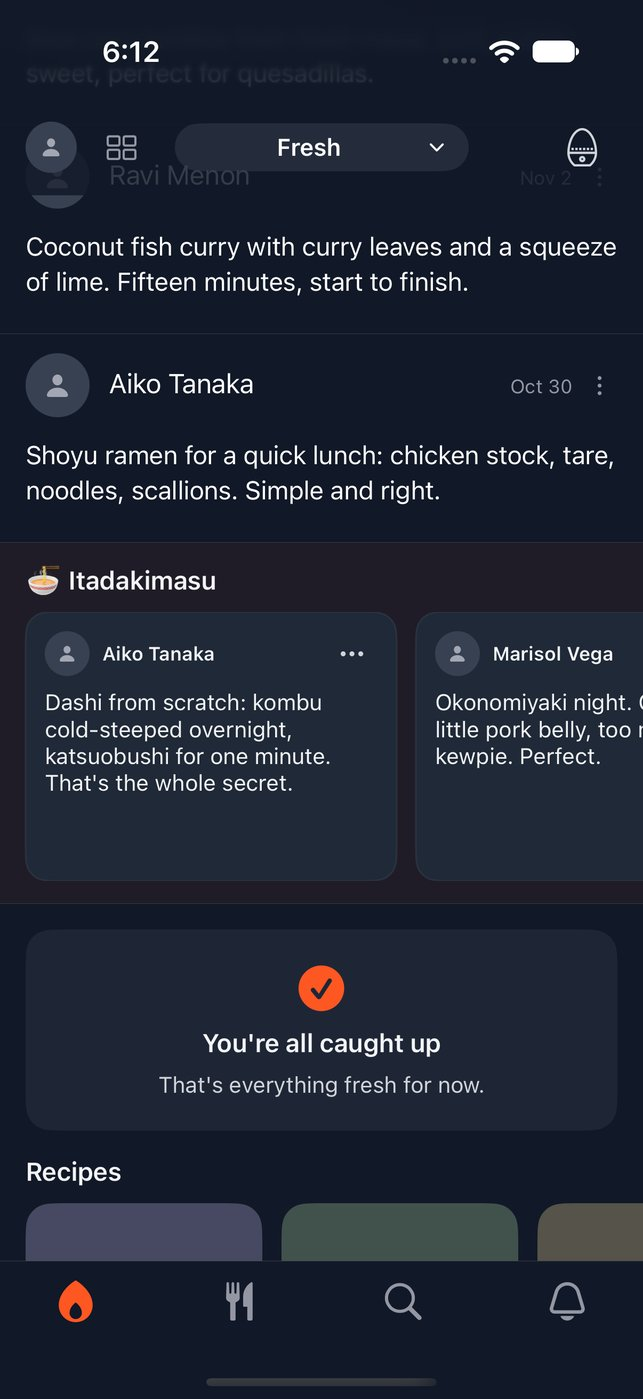
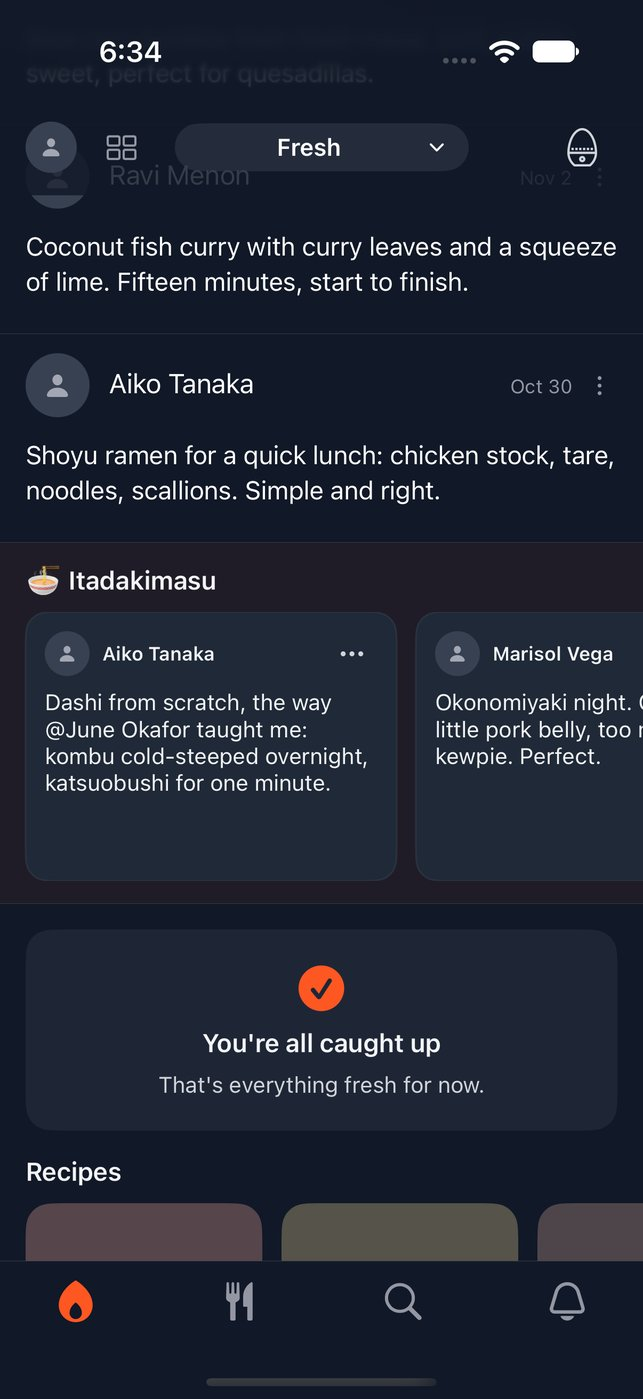
fix(fresh): spotlight mentions, spotlight profiles, recipe box takes recipes only
From Seth's device pass (flag flipped locally):

1. Mentions rendered raw. FreshSpotlightTile.plainText now goes through
   the app's ContentParser: a profile mention (nostr:npub / nprofile)
   reads "@name" by the feed's rule (RichInlineTextView.mentionName,
   extracted from its inline renderer: display name, else short npub,
   trailing space trimmed); note / nevent / naddr references, links,
   media and invoices are dropped.
2. Spotlight authors had no profile. When the loader readies a spotlight,
   the view model now asks for its authors' and mentioned people's
   profiles (referencedAuthorPubkeys; cached ones at once), before the
   card is placed. Later arrivals reach the tile through updates().
3. The recipe box took an article tagged zapcooking. FreshRecipeBox
   .isCandidate now uses RecipeParser.isRecipe (tag AND recipe-template
   content). The finish-line row's half is #218.

Tests: tile text with npub / nprofile / note / nevent / naddr / link;
profiles requested on prepare (fails if the request is removed); a tile
whose profiles arrive after it is on screen; tagged article never a box
card (unit and view model). Screenshot fixture gains a mention;
spotlight shots re-shot (iPhone, iPad both orientations).

diff --git a/wispTests/FreshSpecialsListTests.swift b/wispTests/FreshSpecialsListTests.swift
@@ -48,7 +48,8 @@ import Testing
     /// `answerTopics`); otherwise `scripted.previews` answers them.
     func makeRig(enabled: Bool = true, previewsOverSocket: Bool = false,
                  pubkey: String = String(repeating: "c", count: 64),
-                 visitStore: Base.Store = Base.Store()) -> Rig {
+                 visitStore: Base.Store = Base.Store(),
+                 profiles: FreshProfileSource? = nil) -> Rig {
         let transport = FakeGroupTransport()
         let client = FreshRelayClient(
             transport: transport, now: { Self.now }, silenceTimeout: 5,
@@ -72,7 +73,7 @@ import Testing
             persist: { _ in },
             visitStorage: visitStore, lastVisit: FreshLastVisit(),
             notificationCenter: center, retryDelays: [.milliseconds(30)],
-            profileSource: Base.NoProfiles(),
+            profileSource: profiles ?? Base.NoProfiles(),
             specialsEnabled: enabled,
             specialsStore: store,
             specialsRng: seeded.rng,
@@ -430,5 +431,110 @@ import Testing
         scroll(rig.vm, to: firstAt + 6)
         _ = await t.eventually { self.cards(rig.vm).count == 2 }
         #expect(cards(rig.vm).allSatisfy { $0.special.type == .recipe })
+    }
+
+    // MARK: - Device-pass fixes (2026-11-11)
+
+    /// A profile source the test drives: a cache, a record of what was asked
+    /// for, and the updates stream (a profile arriving later).
+    final class Profiles: FreshProfileSource {
+        var cache: [String: ProfileData] = [:]
+        var observed: [String] = []
+        let stream: AsyncStream<String>
+        let continuation: AsyncStream<String>.Continuation
+        init() { (stream, continuation) = AsyncStream<String>.makeStream() }
+        func cached(_ pubkey: String) -> ProfileData? { cache[pubkey] }
+        func observe(_ events: [NostrEvent]) { observed += events.flatMap(\.referencedAuthorPubkeys) }
+        func updates() -> AsyncStream<String> { stream }
+        func arrive(_ pubkey: String, name: String) {
+            cache[pubkey] = ProfileData(pubkey: pubkey, json: ["display_name": name])
+            continuation.yield(pubkey)
+        }
+    }
+
+    static func hex(_ s: String) -> [UInt8] { Hex.decode(s).map { Array($0) } ?? [] }
+
+    @Test("tile text: profile mentions read @name (short npub until known); note, event and address references and links are dropped")
+    func tileTextRendersMentions() throws {
+        let named = try Base.Author(), unnamed = try Base.Author(), quoted = try Base.Author()
+        let npub = try #require(Nip19.npubEncode(pubkey: Self.hex(named.pubkey)))
+        let nprofile = try #require(Nip19.nprofileEncode(pubkey32: Self.hex(unnamed.pubkey), relays: ["wss://relay.example"]))
+        let note = try quoted.event(Self.now - 500)
+        let noteRef = try #require(Nip19.noteEncode(eventId: Self.hex(note.id)))
+        let neventRef = try #require(Nip19.neventEncode(eventId32: Self.hex(note.id), author32: Self.hex(quoted.pubkey)))
+        let naddrRef = try #require(Nip19.naddrEncode(kind: 30023, pubkeyHex: quoted.pubkey, dTag: "pie"))
+        let post = try Base.Author().event(Self.now - 100, content:
+            "Bread with nostr:\(npub) and nostr:\(nprofile) today nostr:\(noteRef)\nsee nostr:\(neventRef) nostr:\(naddrRef) https://img.example/loaf.jpg #sourdough")
+        let profiles = [named.pubkey: ProfileData(pubkey: named.pubkey, json: ["display_name": "Theo  "])]
+        let text = FreshSpotlightTile.plainText(post, profiles: profiles)
+        #expect(text == "Bread with @Theo and @\(Nip19.shortNpub(hex: unnamed.pubkey)) today see #sourdough")
+        #expect(!text.contains("nostr:"))
+    }
+
+    @Test("a prepared spotlight asks for its authors' and mentioned people's profiles before it is placed; cached ones show at once")
+    func spotlightRequestsProfiles() async throws {
+        let source = Profiles()
+        let rig = makeRig(profiles: source)
+        let mentioned = try Base.Author()
+        let npub = try #require(Nip19.npubEncode(pubkey: Self.hex(mentioned.pubkey)))
+        var spot = try Self.page(3, newest: Self.now - 3_000, step: 60)
+        spot[0] = try Base.Author().event(Self.now - 2_900, content: "Crumb shot for nostr:\(npub)")
+        source.cache[spot[1].pubkey] = ProfileData(pubkey: spot[1].pubkey, json: ["display_name": "Cached Cook"])
+        for topic in Self.groups.flatMap(\.topics) { rig.scripted.previews[topic.slug] = spot }
+        try await start(rig, page: try Self.page(FreshRelayClient.pageSize), recipes: try Self.oldRecipes(6))
+        await rig.vm.prepareSpotlightAndWait()
+        // Not placed yet (the slot is out of reach), but already asked for.
+        #expect(cards(rig.vm).count == 1)
+        let wanted = Set(spot.map(\.pubkey) + [mentioned.pubkey])
+        #expect(wanted.isSubset(of: Set(source.observed)))
+        #expect(rig.vm.profiles[spot[1].pubkey]?.displayString == "Cached Cook")
+    }
+
+    @Test("a tile whose profiles arrive after it is on screen updates: author name and mention resolve")
+    func lateProfilesReachTheTile() async throws {
+        let source = Profiles()
+        let rig = makeRig(profiles: source)
+        let mentioned = try Base.Author()
+        let npub = try #require(Nip19.npubEncode(pubkey: Self.hex(mentioned.pubkey)))
+        var spot = try Self.page(3, newest: Self.now - 3_000, step: 60)
+        spot[0] = try Base.Author().event(Self.now - 2_900, content: "Ask nostr:\(npub) about the levain")
+        for topic in Self.groups.flatMap(\.topics) { rig.scripted.previews[topic.slug] = spot }
+        try await start(rig, page: try Self.page(FreshRelayClient.pageSize), recipes: try Self.oldRecipes(6))
+        await rig.vm.prepareSpotlightAndWait()
+        let firstAt = rig.vm.posts.firstIndex { $0.id == cards(rig.vm).first?.after } ?? 0
+        scroll(rig.vm, to: firstAt + 2)
+        _ = await t.eventually { self.cards(rig.vm).count == 2 }
+        let card = try #require(cards(rig.vm).last)
+        let posts = Self.spotlightPosts(card.special)
+        let tilePost = try #require(posts.first { $0.id == spot[0].id })
+        rig.vm.cardAppeared(key: rig.vm.placedSlots.last!.key)
+        // On screen with nothing known: short npub for the mention, no author name.
+        #expect(rig.vm.profiles[tilePost.pubkey] == nil)
+        #expect(FreshSpotlightTile.plainText(tilePost, profiles: rig.vm.profiles)
+                == "Ask @\(Nip19.shortNpub(hex: mentioned.pubkey)) about the levain")
+        // The profiles arrive.
+        source.arrive(tilePost.pubkey, name: "Theo Brandt")
+        source.arrive(mentioned.pubkey, name: "June Okafor")
+        #expect(await t.eventually { rig.vm.profiles[tilePost.pubkey]?.displayString == "Theo Brandt" })
+        #expect(await t.eventually { rig.vm.profiles[mentioned.pubkey] != nil })
+        #expect(FreshSpotlightTile.plainText(tilePost, profiles: rig.vm.profiles) == "Ask @June Okafor about the levain")
+    }
+
+    @Test("an article tagged zapcooking (no recipe template) never becomes a recipe-box card")
+    func boxSkipsTaggedArticles() async throws {
+        let rig = makeRig()
+        let article = try Base.Author().event(Self.now - 30 * Self.day, kind: 30023,
+                                              content: "Arkade.Money and ZapCooking, now running Branta.",
+                                              tags: [["d", "branta"], ["t", "zapcooking"]])
+        let recipe = try Self.oldRecipes(1)
+        try await start(rig, page: try Self.page(FreshRelayClient.pageSize), recipes: [article] + recipe)
+        let card = try #require(cards(rig.vm).first)
+        guard case .recipe(let boxed) = card.special else { Issue.record("not a recipe"); return }
+        #expect(boxed.id == recipe[0].id)
+        // Its pool is used up: the next slot can't take the article either.
+        let firstAt = rig.vm.posts.firstIndex { $0.id == card.after } ?? 0
+        scroll(rig.vm, to: firstAt + 6)
+        try? await Task.sleep(for: .milliseconds(100))
+        #expect(!cards(rig.vm).contains { if case .recipe(let e) = $0.special { return e.id == article.id }; return false })
     }
 }

diff --git a/wisp/FreshSpecialCards.swift b/wisp/FreshSpecialCards.swift
@@ -68,7 +68,8 @@ struct FreshSpotlightCard: View {
                             profile: profiles[event.pubkey],
                             canModerate: event.pubkey != me,
                             onTap: { onPostTap(event) },
-                            onProfileTap: { onProfileTap(event.pubkey) }
+                            onProfileTap: { onProfileTap(event.pubkey) },
+                            profiles: profiles
                         )
                         .frame(width: Self.tileWidth, height: tileHeight)
                     }
@@ -96,7 +97,10 @@ struct FreshSpotlightTile: View {
 
     private var name: String { profile?.displayString ?? Nip19.shortNpub(hex: event.pubkey) }
     private var image: URL? { FreshSpotlightTile.firstImage(event).flatMap(URL.init(string:)) }
-    private var text: String { FreshSpotlightTile.plainText(event.content) }
+    /// Every profile the card knows (the author's and anyone mentioned).
+    var profiles: [String: ProfileData] = [:]
+
+    private var text: String { FreshSpotlightTile.plainText(event, profiles: profiles) }
 
     var body: some View {
         VStack(alignment: .leading, spacing: 8) {
@@ -199,11 +203,35 @@ struct FreshSpotlightTile: View {
         return nil
     }
 
-    /// The text without links (the picture shows on its own), whitespace
-    /// collapsed.
-    nonisolated static func plainText(_ content: String) -> String {
-        let range = NSRange(content.startIndex..., in: content)
-        let stripped = urlRegex.stringByReplacingMatches(in: content, range: range, withTemplate: "")
-        return stripped.split(whereSeparator: { $0.isWhitespace }).joined(separator: " ")
+    /// The tile's text, from the app's own parse (`ContentParser`):
+    /// - a profile mention (`nostr:npub…` / `nprofile…`) reads "@name", by
+    ///   the same rule as the feed (`RichInlineTextView.mentionName`: the
+    ///   display name, else a short npub);
+    /// - note, event and address references (`nostr:note…` / `nevent…` /
+    ///   `naddr…`), links, media and invoices are dropped (the picture shows
+    ///   on its own);
+    /// - hashtags keep their "#", custom emoji their ":shortcode:";
+    /// - whitespace collapsed.
+    static func plainText(_ event: NostrEvent, profiles: [String: ProfileData]) -> String {
+        var out = ""
+        for segment in ContentParser.parse(content: event.content, tags: event.tags) {
+            switch segment {
+            case .text(let text):
+                out += text
+            case .nostrProfile(let pubkey, _):
+                let profile = profiles[pubkey] ?? ProfileRepository.shared.get(pubkey)
+                out += "@" + RichInlineTextView.mentionName(pubkey: pubkey, profile: profile)
+            case .hashtag(let tag):
+                out += "#" + tag
+            case .customEmoji(let shortcode, _):
+                out += ":\(shortcode):"
+            case .lightningAddress(let address):
+                out += address
+            case .nostrNote, .nostrAddressable, .link, .inlineLink, .image, .video, .audio,
+                 .unknownMedia, .lightningInvoice, .lnurlPayable:
+                out += " "
+            }
+        }
+        return out.split(whereSeparator: { $0.isWhitespace }).joined(separator: " ")
     }
 }

diff --git a/wispTests/FreshSpecialsTests.swift b/wispTests/FreshSpecialsTests.swift
@@ -304,21 +304,28 @@ import Testing
     static let day = 86_400
 
     static func recipe(_ id: String, d: String, author: String = "a", createdAt: Int,
-                       publishedAt: Int? = nil, tagged: Bool = true) -> NostrEvent {
+                       publishedAt: Int? = nil, tagged: Bool = true, template: Bool = true) -> NostrEvent {
         var tags: [[String]] = [["d", d]]
         if tagged { tags.append(["t", "zapcooking"]) }
         if let publishedAt { tags.append(["published_at", String(publishedAt)]) }
-        return NostrEvent(id: id, pubkey: author, kind: 30023, createdAt: createdAt, tags: tags, content: id, sig: "")
+        let content = template
+            ? "## Chef's notes\n\n\(id)\n\n## Ingredients\n\n- flour\n- water\n\n## Directions\n\n1. Mix.\n2. Bake."
+            : "\(id): an article, not a recipe."
+        return NostrEvent(id: id, pubkey: author, kind: 30023, createdAt: createdAt, tags: tags, content: content, sig: "")
     }
 
-    @Test("candidates: tagged recipes first published more than 14 days ago")
+    @Test("candidates: recipes (tag and recipe template) first published more than 14 days ago; a tagged article is not one")
     func candidates() {
         let old = Self.recipe("old", d: "a", createdAt: Self.now - 30 * Self.day)
         let new = Self.recipe("new", d: "b", createdAt: Self.now - 2 * Self.day)
         let oldEdit = Self.recipe("edit", d: "c", createdAt: Self.now - Self.day, publishedAt: Self.now - 100 * Self.day)
         let untagged = Self.recipe("plain", d: "d", createdAt: Self.now - 30 * Self.day, tagged: false)
         let note = NostrEvent(id: "n", pubkey: "a", kind: 1, createdAt: Self.now - 30 * Self.day, tags: [], content: "", sig: "")
+        // Seth's device pass: an announcement tagged zapcooking (badge ARTICLE).
+        let taggedArticle = Self.recipe("branta", d: "branta", createdAt: Self.now - 30 * Self.day, template: false)
         #expect(FreshRecipeBox.isCandidate(old, now: Self.now))
+        #expect(!FreshRecipeBox.isCandidate(taggedArticle, now: Self.now))
+        #expect(FreshRecipeBox.buildPool([taggedArticle, old], now: Self.now).map(\.id) == ["old"])
         #expect(!FreshRecipeBox.isCandidate(new, now: Self.now))
         #expect(FreshRecipeBox.isCandidate(oldEdit, now: Self.now))
         #expect(!FreshRecipeBox.isCandidate(untagged, now: Self.now))

diff --git a/RichInlineTextView.swift b/RichInlineTextView.swift
@@ -18,6 +18,18 @@ extension NSAttributedString.Key {
 /// (text, hashtags, mentions, links, custom emoji images) with
 /// per-range link tap handling.
 struct RichInlineTextView: UIViewRepresentable {
+    /// The name a `nostr:npub…` / `nprofile…` mention shows (after "@").
+    /// Unresolved mentions fall back to a short npub instead of a bare
+    /// ellipsis: a stable identifier the reader can match against other
+    /// surfaces, and which never exposes hex. Some users unknowingly save a
+    /// display name with trailing whitespace; left intact it renders as
+    /// "@name " and collides with the space that follows the mention in the
+    /// surrounding text, producing a visible double space.
+    static func mentionName(pubkey: String, profile: ProfileData?) -> String {
+        (profile?.displayString ?? Nip19.shortNpub(hex: pubkey))
+            .replacingOccurrences(of: "\\s+$", with: "", options: .regularExpression)
+    }
+
     let segments: [ContentSegment]
     let profiles: [String: ProfileData]
     /// When true, taps on `@mention` / `#hashtag` / inline-URL ranges fire the
@@ -256,15 +268,7 @@ struct RichInlineTextView: UIViewRepresentable {
 
             case .nostrProfile(let pubkey, _):
                 let resolvedProfile = profiles[pubkey] ?? ProfileRepository.shared.get(pubkey)
-                // Unresolved mentions fall back to a short npub instead of a
-                // bare ellipsis: a stable identifier the reader can match
-                // against other surfaces, and which never exposes hex.
-                // Some users unknowingly save a display name with trailing
-                // whitespace; left intact it renders as "@name " and collides
-                // with the space that follows the mention in the surrounding
-                // text, producing a visible double space.
-                let name = (resolvedProfile?.displayString ?? Nip19.shortNpub(hex: pubkey))
-                    .replacingOccurrences(of: "\\s+$", with: "", options: .regularExpression)
+                let name = Self.mentionName(pubkey: pubkey, profile: resolvedProfile)
                 var attrs = baseAttrs
                 attrs[.foregroundColor] = mentionPillStyle ? ComposerTextStyling.pillTextColor : primaryColor
                 if mentionPillStyle {

diff --git a/wisp/FreshFeedViewModel.swift b/wisp/FreshFeedViewModel.swift
@@ -1073,7 +1073,7 @@ final class FreshFeedViewModel {
                 topicHistory: { [weak self] in self?.specialsStore.loadTopicHistory() ?? [:] },
                 rng: specialsRng,
                 schedule: specialsSchedule ?? FreshSpotlightLoader.taskTimer,
-                onChange: { [weak self] in self?.decideSlots() },
+                onChange: { [weak self] in self?.spotlightChanged() },
                 // Never while the feed isn't shown: its socket is closed.
                 enabled: { [weak self] in (self?.specialsEnabled ?? false) && (self?.isActive ?? false) }
             ))
@@ -1090,6 +1090,15 @@ final class FreshFeedViewModel {
 
     /// Topics the spotlights used this session (tests).
     var spotlightUsedTopics: Set<String> { spotlights?.usedTopics ?? [] }
+
+    /// The loader finished a build: ask for the ready spotlight's profiles
+    /// now (before it is placed), then decide slots.
+    private func spotlightChanged() {
+        if case .spotlight(_, let posts)? = spotlights?.ready {
+            observeSpotlightProfiles(posts)
+        }
+        decideSlots()
+    }
 
     private func shownSpotlightIds() -> Set<String> {
         Set(specialsStore.loadShown(now: now()).keys)
@@ -1228,6 +1237,17 @@ final class FreshFeedViewModel {
             if let cached = profileSource.cached(pk) { profiles[pk] = cached }
         }
         profileSource.observe(events)
+    }
+
+    /// Spotlight posts: their authors and everyone their text mentions
+    /// (`referencedAuthorPubkeys`, the same set `MissingProfileWatcher`
+    /// fetches), so a tile shows names and avatars rather than short npubs.
+    /// Profiles that arrive later reach `profiles` through `updates()`.
+    private func observeSpotlightProfiles(_ posts: [NostrEvent]) {
+        for pk in Set(posts.flatMap(\.referencedAuthorPubkeys)) where profiles[pk] == nil {
+            if let cached = profileSource.cached(pk) { profiles[pk] = cached }
+        }
+        profileSource.observe(posts)
     }
 
     private func ensureProfileUpdates() {

diff --git a/wisp/FreshRecipeBox.swift b/wisp/FreshRecipeBox.swift
@@ -4,10 +4,14 @@ import Foundation
 /// ported from web `src/lib/freshFeed/recipeBox.ts` (ZapCooking e4a71d6b).
 /// Picked at random from the recipes this account hasn't been shown yet.
 ///
-/// Pool: kind 30023 tagged zapcooking / nostrcooking (and kind 35000, which
-/// iOS doesn't request), first published (`published_at`, else
-/// `created_at`) more than 14 days ago; one per coordinate, the newest
-/// version.
+/// Pool: recipes by the app's rule (`RecipeParser.isRecipe`: kind 30023, a
+/// zapcooking / nostrcooking tag AND recipe-template content), first
+/// published (`published_at`, else `created_at`) more than 14 days ago; one
+/// per coordinate, the newest version.
+///
+/// ≠ web: web's `isRecipe` checks the tag only, so an article tagged
+/// zapcooking can become a box card (Seth's device pass found one;
+/// frontend#946). Kind 35000 is not requested on iOS.
 ///
 /// The box cards and the finish-line recipe row never show the same recipe
 /// (Seth, 2026-11-11): the box picks first and the row skips what the box
@@ -22,7 +26,7 @@ nonisolated enum FreshRecipeBox {
 
     /// An older recipe: first published before the free window.
     static func isCandidate(_ e: NostrEvent, now: Int) -> Bool {
-        guard FreshPosts.isRecipe(kind: e.kind, tags: e.tags) else { return false }
+        guard RecipeParser.isRecipe(e) else { return false }
         let first = FreshPosts.publishedAt(tags: e.tags) ?? e.createdAt
         return first < now - FreshPosts.freeWindowSeconds
     }

diff --git a/wisp/FreshScreenshotFixtures.swift b/wisp/FreshScreenshotFixtures.swift
@@ -105,7 +105,13 @@ enum FreshScreenshotFixtures {
         ]),
     ]
 
+    /// A cook's `npub`, for a mention (the tile shows it as "@name").
+    private static func npub(_ cook: Int) -> String {
+        Hex.decode(cooks[cook].pubkey).flatMap { Nip19.npubEncode(pubkey: Array($0)) } ?? ""
+    }
+
     /// Each topic's preview: three posts from three cooks, none in the feed.
+    /// One mentions another cook.
     static let previews: [String: [NostrEvent]] = [
         "sourdough": [
             sign(1, minutesAgo: 240, "Levain peaked at 6am, mixed by 7. Long autolyse today and the dough already feels silky."),
@@ -113,7 +119,7 @@ enum FreshScreenshotFixtures {
             sign(5, minutesAgo: 2_000, "Semolina sourdough for the first time. Golden crumb, nutty crust, slightly too proud of it."),
         ].compactMap { $0 },
         "japanese": [
-            sign(2, minutesAgo: 300, "Dashi from scratch: kombu cold-steeped overnight, katsuobushi for one minute. That's the whole secret."),
+            sign(2, minutesAgo: 300, "Dashi from scratch, the way nostr:\(npub(3)) taught me: kombu cold-steeped overnight, katsuobushi for one minute."),
             sign(0, minutesAgo: 1_100, "Okonomiyaki night. Cabbage, a little pork belly, too much kewpie. Perfect."),
             sign(4, minutesAgo: 2_400, "Onigiri for the road: umeboshi, salmon, and one with leftover curry nobody asked for."),
         ].compactMap { $0 },

diff --git a/wispTests/FreshFeedViewModelTests.swift b/wispTests/FreshFeedViewModelTests.swift
@@ -30,7 +30,11 @@ import Testing
             var tags: [[String]] = [["d", d]]
             if let publishedAt { tags.append(["published_at", String(publishedAt)]) }
             if recipe { tags.append(["t", "zapcooking"]) }
-            return try event(createdAt, kind: 30023, content: "long form \(d) \(createdAt)", tags: tags)
+            // A recipe carries the recipe template (`RecipeParser.isRecipe`).
+            let content = recipe
+                ? "## Chef's notes\n\n\(d) \(createdAt)\n\n## Ingredients\n\n- flour\n- water\n\n## Directions\n\n1. Mix.\n2. Bake."
+                : "long form \(d) \(createdAt)"
+            return try event(createdAt, kind: 30023, content: content, tags: tags)
         }
     }
 

diff --git a/wispTests/FreshScreenshotFixturesTests.swift b/wispTests/FreshScreenshotFixturesTests.swift
@@ -66,4 +66,12 @@ import Testing
         #expect(placed == [.recipe, .spotlight], "\(types()) posts \(vm.posts.count)")
         await vm.deactivateAndWait()
     }
+
+    @Test("a spotlight fixture mentions a cook, and the tile reads it as @name")
+    func fixtureSpotlightMention() throws {
+        let post = try #require(FreshScreenshotFixtures.previews["japanese"]?.first)
+        #expect(post.content.contains("nostr:npub1"))
+        let text = FreshSpotlightTile.plainText(post, profiles: FreshScreenshotFixtures.profiles)
+        #expect(text.hasPrefix("Dashi from scratch, the way @June Okafor taught me:"), "\(text)")
+    }
 }
